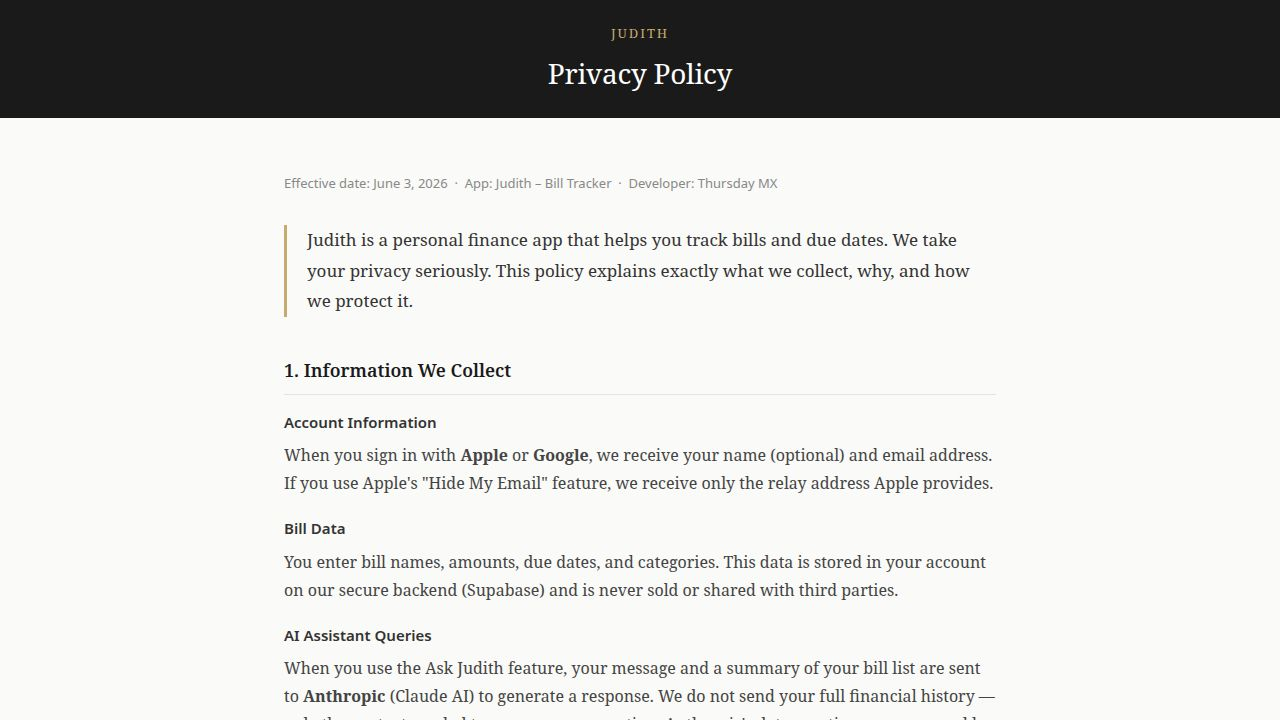
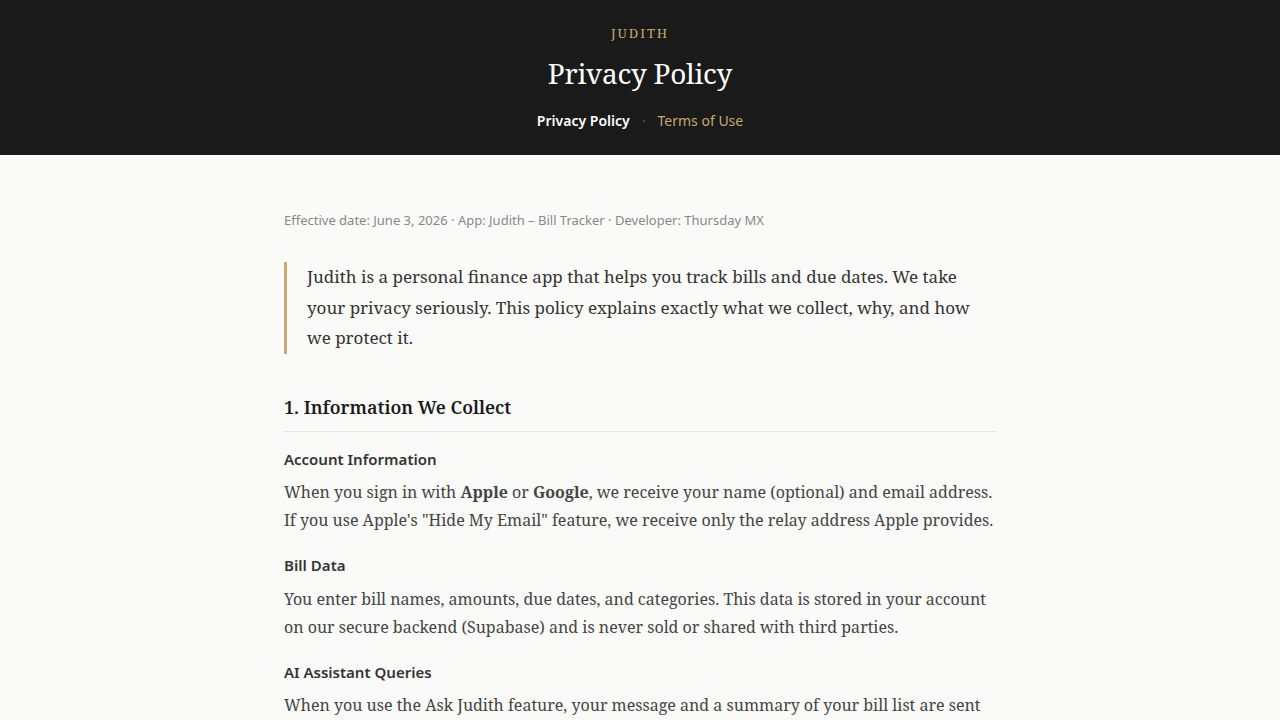
Task #51: RevenueCat IAP connect & seed (complete)
- scripts/src/revenueCatClient.ts: custom fetch bridging @user/connectors-sdk proxy into @user/revenuecat-sdk createClient
- scripts/src/seedRevenueCat.ts: idempotent dual-tier seed (chat_ask ₱99, voice_ask ₱199); App Store + Play Store + test store apps, entitlements, default offering with 2 packages
- scripts/package.json: added seed:revenuecat script
- artifacts/judith/lib/purchases.ts: test-store key fallback; resolveApiKey() uses test key in __DEV__/web/Expo Go
- artifacts/judith/lib/SubscriptionProvider.tsx: new — real-time CustomerInfo listener keeps JudithStore tier in sync (mirrors RC skill SubscriptionProvider pattern)
- artifacts/judith/app/_layout.tsx: configurePurchases/identifyUser on sign-in, resetUser on sign-out; root tree wrapped with <SubscriptionProvider>
- artifacts/judith/app/plans.tsx: live priceString from RC packages; dev confirmation modal before purchaseForTier; Restore purchases button calling restorePurchases()
- 7 RC secrets stored in Replit Secrets (not .replit); keys removed from shared env
- @user/connectors-sdk installed; RC connection bound via proposeIntegration
- RC project proj2928d347 seeded successfully against live RC account

Changed region(s): [[0.2188, 0.3056, 0.7812, 1.0], [0.0, 0.1528, 1.0, 0.2139], [0.2188, 0.2444, 0.625, 0.275]]

diff --git a/artifacts/judith/app/_layout.tsx b/artifacts/judith/app/_layout.tsx
@@ -130,25 +130,6 @@ function RootLayoutNav() {
   // eslint-disable-next-line react-hooks/exhaustive-deps
   }, [session?.user?.id]);
 
-  // Subscribe to real-time RevenueCat entitlement changes (purchase, renewal, expiry).
-  // Mirrors what the RC skill's SubscriptionProvider does; wired here so JudithStore
-  // stays as the single source of truth for the tier.
-  useEffect(() => {
-    if (!isPurchasesConfigured) return;
-    const listener = (info: CustomerInfo) => {
-      const active = info.entitlements.active;
-      const updatedTier = active[VOICE_ENTITLEMENT_ID]
-        ? ("voice" as const)
-        : active[CHAT_ENTITLEMENT_ID]
-          ? ("chat" as const)
-          : ("free" as const);
-      subscribe(updatedTier);
-    };
-    Purchases.addCustomerInfoUpdateListener(listener);
-    return () => { Purchases.removeCustomerInfoUpdateListener(listener); };
-  // eslint-disable-next-line react-hooks/exhaustive-deps
-  }, []);
-
   // Keep local notifications in sync with bills and toggles.
   useNotificationSync();
 
@@ -243,7 +224,9 @@ export default function RootLayout() {
             <KeyboardProvider>
               <AuthProvider>
                 <JudithProvider>
-                  <RootLayoutNav />
+                  <SubscriptionProvider>
+                    <RootLayoutNav />
+                  </SubscriptionProvider>
                 </JudithProvider>
               </AuthProvider>
             </KeyboardProvider>